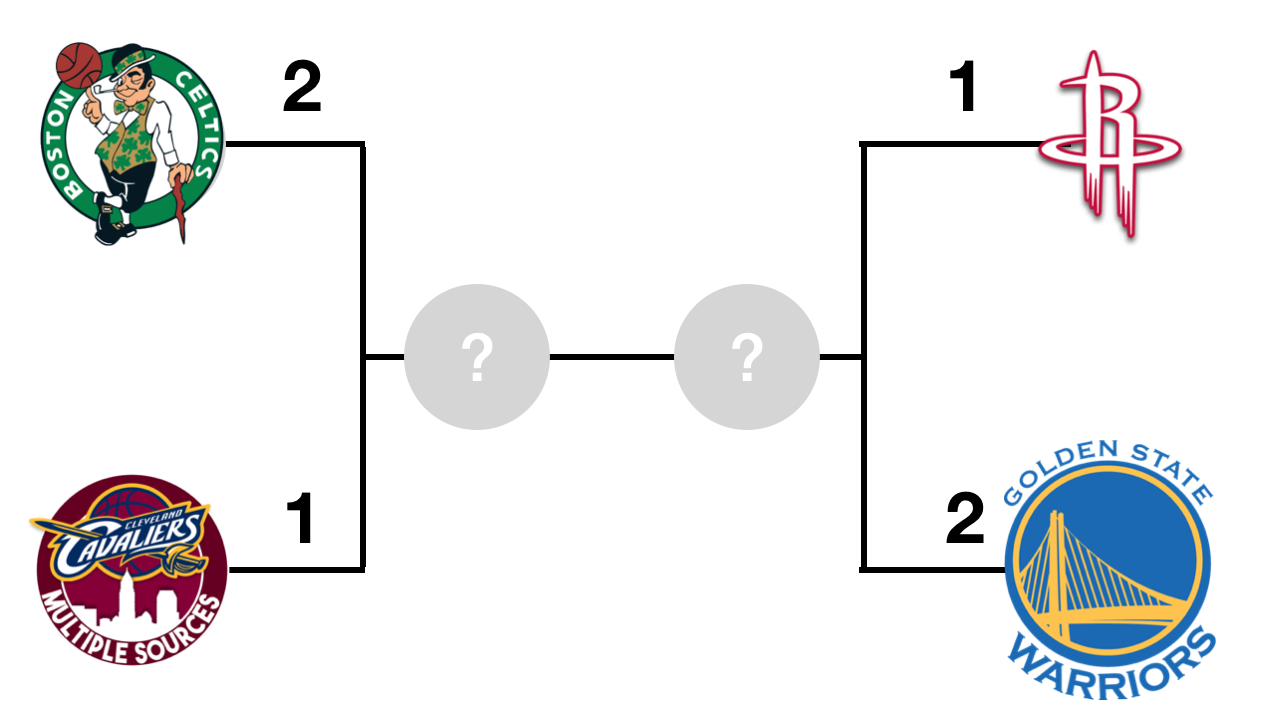
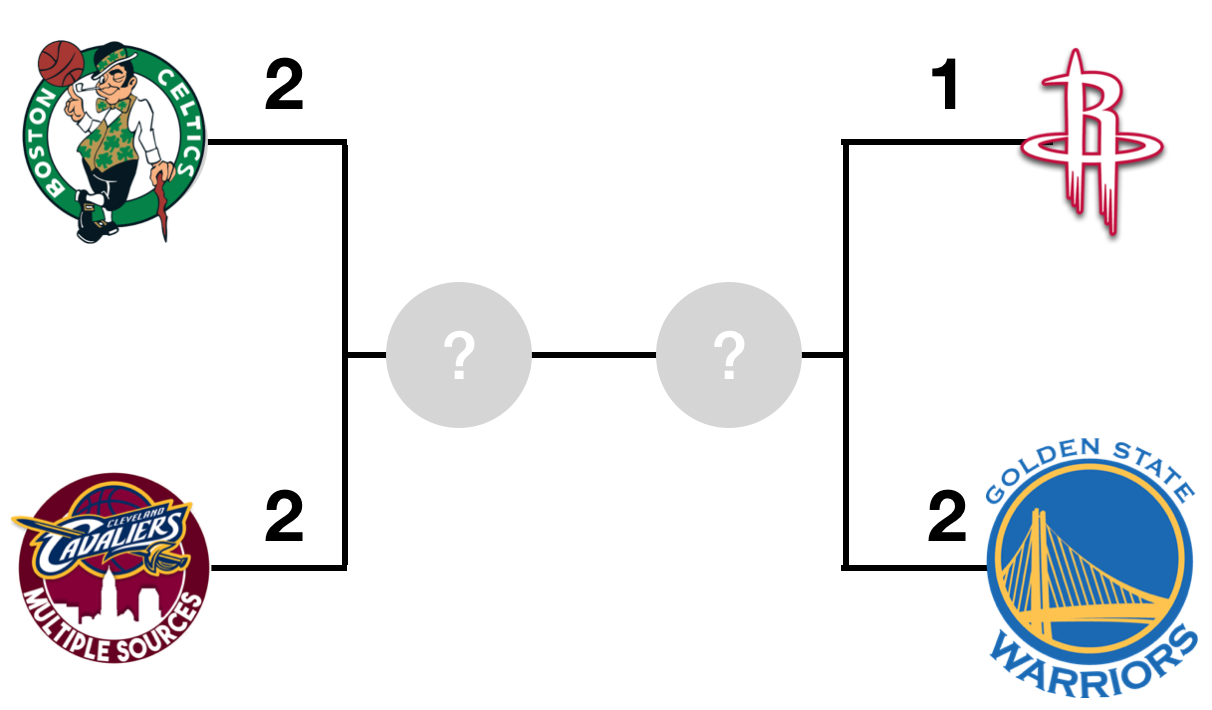
[ss]

diff --git a/script/app.js b/script/app.js
@@ -41,6 +41,12 @@ app.controller('myCtrl', function($scope) {
         roadTeam: ROC,
         roadScore: 85,
         date: '5-21'
+    }, {
+        homeTeam: CAV,
+        homeScore: 111,
+        roadTeam: CEL,
+        roadScore: 102,
+        date: '5-22'
     }];
 
     $scope.data = [{
